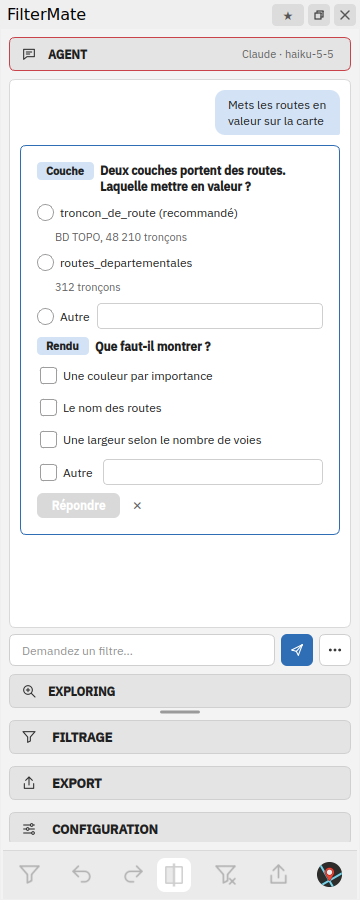
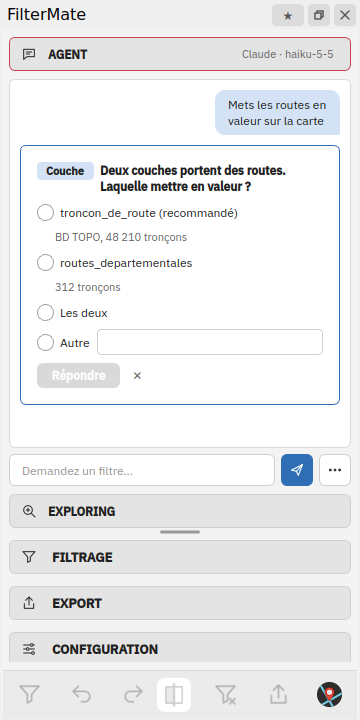
Site and README: the AGENT captures all at 360 x 720, the action bar at its own size
The row of the README was uneven (720, 900 and 640 px high). The question board asks one
question and the setup board keeps the size of the others; the action bar of section 7
is no longer stretched to the width of the page.

diff --git a/website/guide.fr.html b/website/guide.fr.html
@@ -405,7 +405,7 @@ AND ST_Intersects("geom",
 <!-- 7 ------------------------------------------------------------------ -->
 <section id="actions">
     <h2><span class="num">7</span>Barre d'actions, annulation et historique</h2>
-    <figure>
+    <figure class="narrow">
         <img src="img/guide/action-bar.png" alt="Les sept boutons d'action" loading="lazy" width="357" height="49">
         <figcaption>De gauche à droite : Filter, Undo, Redo, Compare (actif ici), Unfilter, Export, About.</figcaption>
     </figure>
@@ -902,8 +902,8 @@ processing.run("filtermate:batch_filter", {
     </p>
 
     <figure class="narrow">
-        <img src="img/guide/agent-question-fr.png" alt="Une carte de questions dans le fil d'AGENT : laquelle de deux couches de routes mettre en valeur, puis quoi montrer, avec des choix à cocher et un champ Autre" loading="lazy" width="360" height="900">
-        <figcaption>Une demande avec deux couches possibles : l'agent demande laquelle, et quoi montrer, avant de changer quoi que ce soit.</figcaption>
+        <img src="img/guide/agent-question-fr.png" alt="Une carte de questions dans le fil d'AGENT : laquelle de deux couches de routes mettre en valeur, avec des choix à cliquer et un champ Autre" loading="lazy" width="360" height="720">
+        <figcaption>Une demande avec deux couches possibles : l'agent demande laquelle avant de changer quoi que ce soit.</figcaption>
     </figure>
 
     <h3>Configurer FilterMate avec l'agent <small>(5.1.1)</small></h3>
@@ -913,7 +913,7 @@ processing.run("filtermate:batch_filter", {
     </p>
 
     <figure class="narrow">
-        <img src="img/guide/agent-setup-fr.png" alt="La proposition de configurer FilterMate avec l'agent : ce qu'elle couvre, avec les boutons Démarrer et Plus tard" loading="lazy" width="360" height="640">
+        <img src="img/guide/agent-setup-fr.png" alt="La proposition de configurer FilterMate avec l'agent : ce qu'elle couvre, avec les boutons Démarrer et Plus tard" loading="lazy" width="360" height="720">
         <figcaption>La proposition, montrée une fois par version : <em>Démarrer</em> lance les questions, <em>Plus tard</em> la laisse au menu.</figcaption>
     </figure>
 

diff --git a/website/guide.html b/website/guide.html
@@ -406,7 +406,7 @@ AND ST_Intersects("geom",
 <!-- 7 ------------------------------------------------------------------ -->
 <section id="actions">
     <h2><span class="num">7</span>Action bar, undo and history</h2>
-    <figure>
+    <figure class="narrow">
         <img src="img/guide/action-bar.png" alt="The seven action buttons" loading="lazy" width="357" height="49">
         <figcaption>From left to right: Filter, Undo, Redo, Compare (on here), Unfilter, Export, About.</figcaption>
     </figure>
@@ -903,8 +903,8 @@ processing.run("filtermate:batch_filter", {
     </p>
 
     <figure class="narrow">
-        <img src="img/guide/agent-question.png" alt="A question card in the AGENT thread: which of two road layers to style, then what to show, with choices to tick and an Other field" loading="lazy" width="360" height="900">
-        <figcaption>A request with two possible layers: the agent asks which one, and what to show, before it changes anything.</figcaption>
+        <img src="img/guide/agent-question.png" alt="A question card in the AGENT thread: which of two road layers to style, with choices to click and an Other field" loading="lazy" width="360" height="720">
+        <figcaption>A request with two possible layers: the agent asks which one before it changes anything.</figcaption>
     </figure>
 
     <h3>Set FilterMate up with the agent <small>(5.1.1)</small></h3>
@@ -914,7 +914,7 @@ processing.run("filtermate:batch_filter", {
     </p>
 
     <figure class="narrow">
-        <img src="img/guide/agent-setup.png" alt="The offer to set FilterMate up with the agent: what it covers, with the Start and Not now buttons" loading="lazy" width="360" height="640">
+        <img src="img/guide/agent-setup.png" alt="The offer to set FilterMate up with the agent: what it covers, with the Start and Not now buttons" loading="lazy" width="360" height="720">
         <figcaption>The offer, shown once per version: <em>Start</em> begins the questions, <em>Not now</em> leaves it to the menu.</figcaption>
     </figure>
 

diff --git a/tests/qgis_headless/run_gui_smoke.py b/tests/qgis_headless/run_gui_smoke.py
@@ -1565,10 +1565,8 @@ BOARD_TEXTS = {
         'questions': [
             {'header': 'Couche', 'question': 'Deux couches portent des routes. Laquelle mettre en valeur ?',
              'options': [{'label': 'troncon_de_route (recommandé)', 'description': 'BD TOPO, 48 210 tronçons'},
-                         {'label': 'routes_departementales', 'description': '312 tronçons'}]},
-            {'header': 'Rendu', 'question': 'Que faut-il montrer ?', 'multi_select': True,
-             'options': [{'label': 'Une couleur par importance'}, {'label': 'Le nom des routes'},
-                         {'label': 'Une largeur selon le nombre de voies'}]}],
+                         {'label': 'routes_departementales', 'description': '312 tronçons'},
+                         {'label': 'Les deux'}]}],
     },
     'en': {
         'communes': 'Keep the communes of more than 10,000 people',
@@ -1588,10 +1586,8 @@ BOARD_TEXTS = {
         'questions': [
             {'header': 'Layer', 'question': 'Two layers hold roads. Which one should stand out?',
              'options': [{'label': 'troncon_de_route (recommended)', 'description': 'BD TOPO, 48,210 sections'},
-                         {'label': 'routes_departementales', 'description': '312 sections'}]},
-            {'header': 'Look', 'question': 'What should it show?', 'multi_select': True,
-             'options': [{'label': 'A colour by importance'}, {'label': 'The names of the roads'},
-                         {'label': 'A width by number of lanes'}]}],
+                         {'label': 'routes_departementales', 'description': '312 sections'},
+                         {'label': 'Both'}]}],
     },
 }
 
@@ -1665,7 +1661,6 @@ def capture_boards(d, chat, folder):
     # The cards of the thread: the questions of ask_user, then the offer to set FilterMate up.
     controller = importlib.import_module(f'{PACKAGE}.ui.controllers.agent_chat_controller')
     parse_questions = importlib.import_module(f'{PACKAGE}.core.agent.questions').parse_questions
-    d.resize(int(os.environ.get('FM_BOARD_W', '360')), 900)  # the whole card, down to its Answer button
     panel.clear_thread()
     panel.add_user(t['style_roads'])
     panel.add_question_card({'other': controller._tr('Other'), 'answer': controller._tr('Answer'),
@@ -1674,7 +1669,6 @@ def capture_boards(d, chat, folder):
     panel.show_thread()
     shot('Question')
     panel.clear_thread()
-    d.resize(int(os.environ.get('FM_BOARD_W', '360')), 640)
     chat._show_setup_offer()
     panel.show_thread()
     QApplication.processEvents()

diff --git a/README.md b/README.md
@@ -25,11 +25,11 @@ exports from a request, with the model you choose.
 <p align="center"><em>The panel follows the current layer: several vector features ticked, a raster with its histogram, a LiDAR point cloud.</em></p>
 
 <p align="center">
-  <img src="website/img/guide/agent-chat.png?v=5" alt="AGENT: two requests in a sentence, each with a filter card that gives the features kept" width="260">
+  <img src="website/img/guide/agent-chat.png?v=6" alt="AGENT: two requests in a sentence, each with a filter card that gives the features kept" width="260">
   &nbsp;
-  <img src="website/img/guide/agent-question.png?v=5" alt="AGENT asks which of two road layers is meant and what to show, with choices to click" width="260">
+  <img src="website/img/guide/agent-question.png?v=6" alt="AGENT asks which of two road layers is meant, with choices to click" width="260">
   &nbsp;
-  <img src="website/img/guide/agent-setup.png?v=5" alt="AGENT offers to set FilterMate up: look, data, what the agent may do alone" width="260">
+  <img src="website/img/guide/agent-setup.png?v=6" alt="AGENT offers to set FilterMate up: look, data, what the agent may do alone" width="260">
 </p>
 <p align="center"><em>AGENT (experimental): a request in a sentence and its filters, a question with choices when the decision is yours, and the offer to set FilterMate up.</em></p>
 
